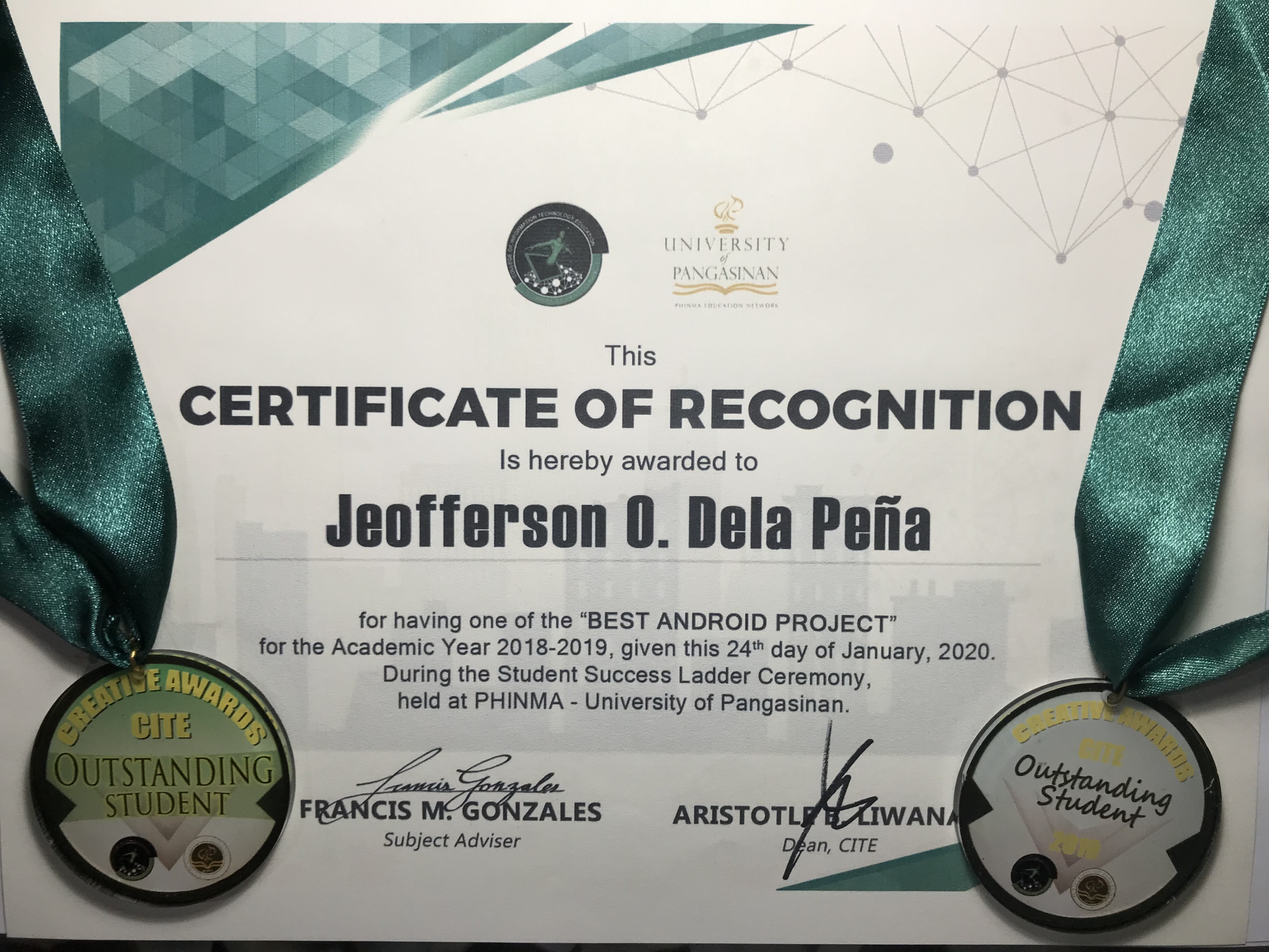
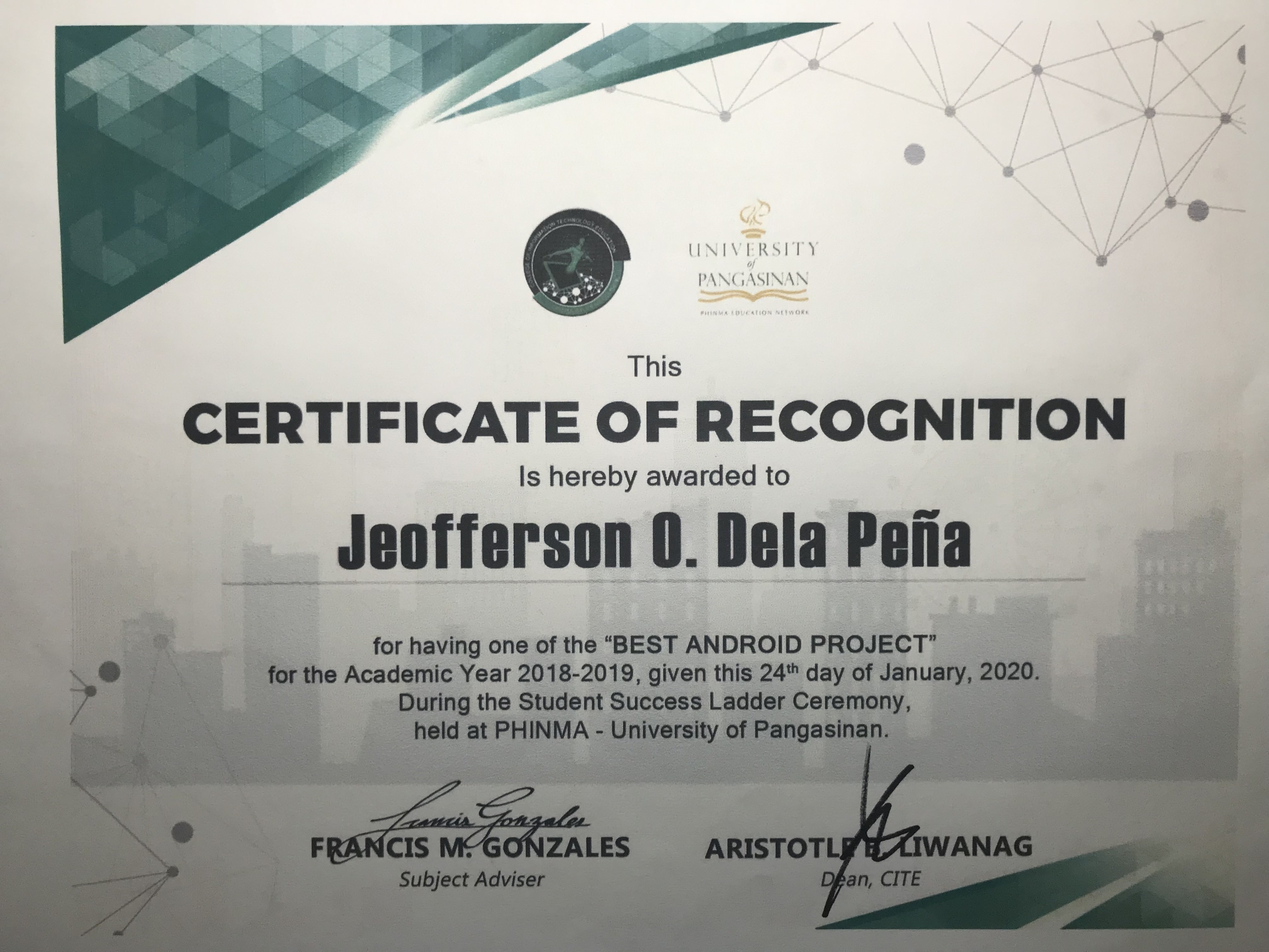
Separated the medals in the award section

diff --git a/index.html b/index.html
@@ -591,7 +591,7 @@
         
         <div class="award col-lg-4 col-md-6" data-aos="fade-up">
           <div class="image framed">
-            <img src="images/award9.jpg">
+            <img src="images/award10.jpg">
           </div>
           <div class="details">
             <h5><span>Most Outstanding Project</span> | Project Exhibit 2020</h5>
@@ -602,7 +602,7 @@
         
         <div class="award col-lg-4 col-md-6" data-aos="fade-up">
           <div class="image framed">
-            <img src="images/award8.jpg">
+            <img src="images/award9.jpg">
           </div>
           <div class="details">
             <h5><span>Best in Application Security</span> | Project Exhibit 2020</h5>
@@ -613,12 +613,23 @@
         
         <div class="award col-lg-4 col-md-6" data-aos="fade-up">
           <div class="image framed">
-            <img src="images/award7.jpg">
+            <img src="images/award8.jpg">
           </div>
           <div class="details">
             <h5><span>Flutter Philippines T-Shirt</span> | Tech CARAVAN 2020: Flutter 101</h5>
             <p class="date"><i class="far fa-calendar-alt"></i>February 15, 2020</p>
             <p class="description">Awarded with this t-shirt by sir Jan Sebastian, core member of Flutter Philippines. He discussed and helped us utilize the <span class="highlight">Dart</span> programming language for Flutter development during the 2020 Tech CARAVAN.</p>
+          </div>
+        </div>
+        
+        <div class="award col-lg-4 col-md-6" data-aos="fade-up">
+          <div class="image framed">
+            <img src="images/award7.jpg">
+          </div>
+          <div class="details">
+            <h5><span>Outstanding Student</span> | Student Success Ladder 2020</h5>
+            <p class="date"><i class="far fa-calendar-alt"></i>January 24, 2020</p>
+            <p class="description">I received these two medals for being an outstanding student. Specifically, the first is for being a member of the team that carried our university's name in a nationwide hackathon and the second is for an Android application that I built solo.</p>
           </div>
         </div>
         
@@ -677,7 +688,7 @@
           </div>
         </div>
         
-        <div class="award col-lg-4 col-md-6" data-aos="fade-up">
+        <div class="award col-lg-4 col-md-6 ml-auto" data-aos="fade-up">
           <div class="image framed">
             <img src="images/award1.jpg">
           </div>
@@ -688,7 +699,7 @@
           </div>
         </div>
         
-        <div class="award col-lg-4 col-md-6 mx-auto" data-aos="fade-up">
+        <div class="award col-lg-4 col-md-6 mx-auto ml-lg-0" data-aos="fade-up">
           <div class="image framed">
             <img src="images/award0.jpg">
           </div>
